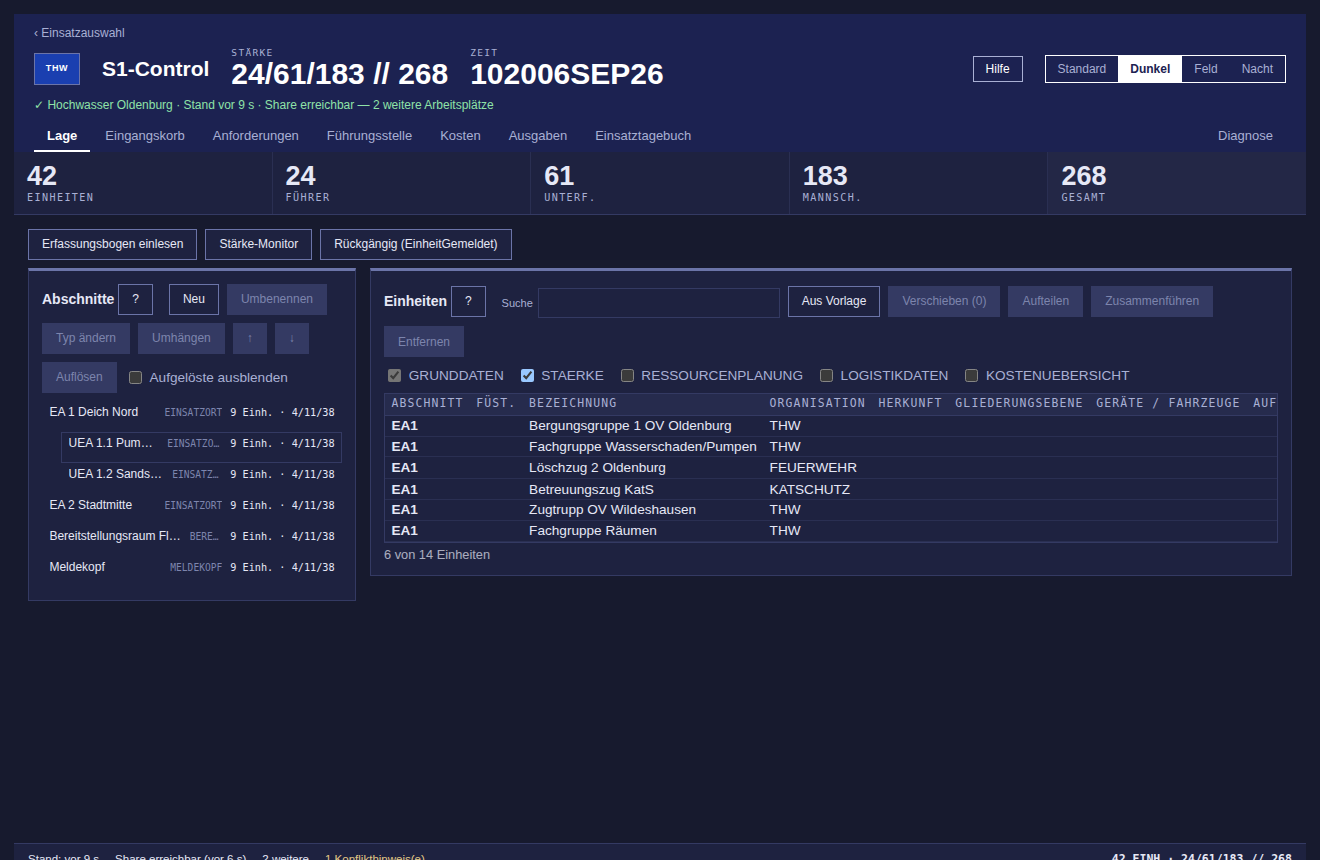
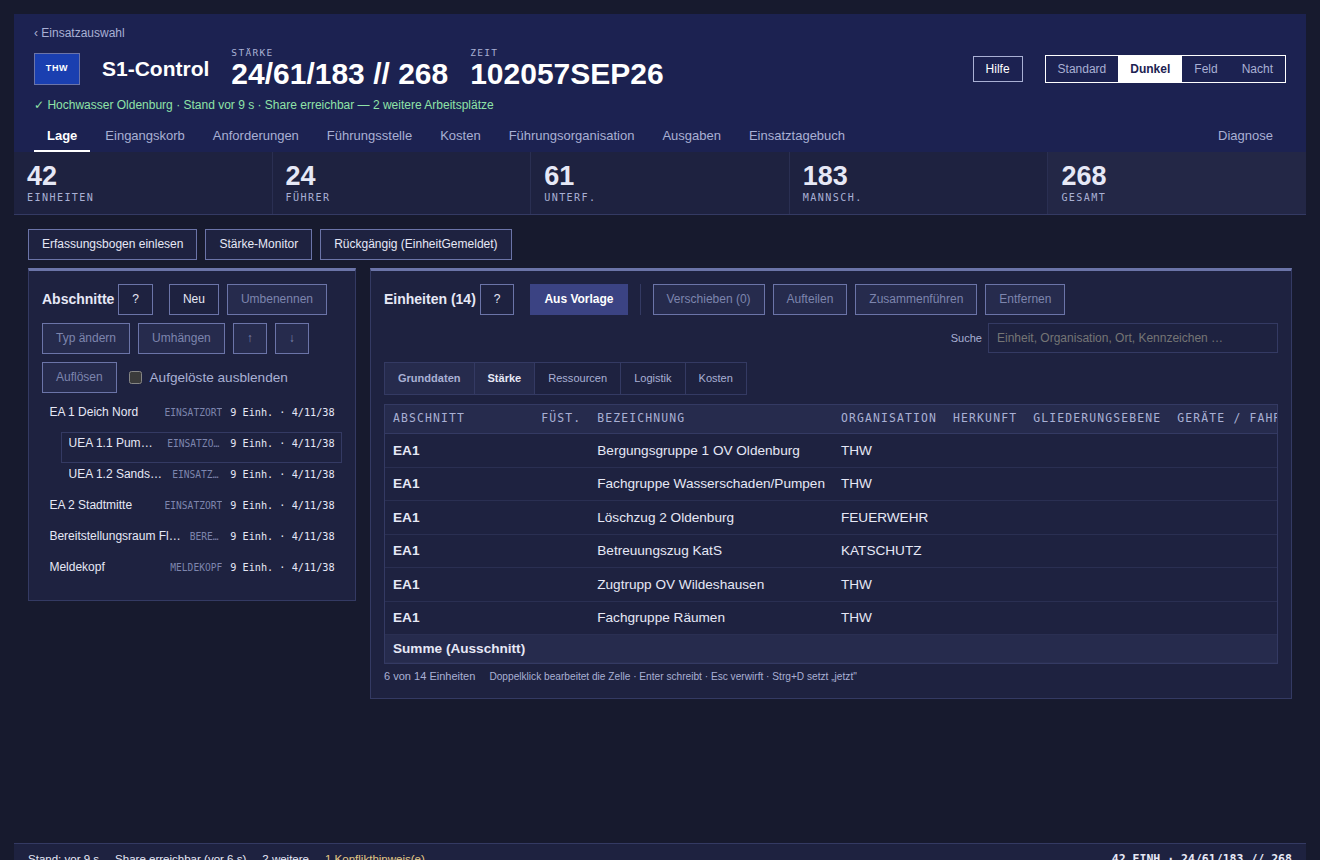
docs(entwurf): Tabelle und Führungsharke im Stand nachgezogen
Claude-Session: https://claude.ai/code/session_01ApCu8BkD42ycPFdkLp88CE

diff --git a/docs/v2/entwurf/oberflaeche/README.md b/docs/v2/entwurf/oberflaeche/README.md
@@ -45,13 +45,40 @@ mitgeschlossen worden: `liesArbeitsplatz` hat die Betriebsart bisher zwar
 geschrieben, aber nicht wieder gelesen — ein Meldekopf war nach jedem Start
 wieder eine Führungsstelle.
 
-Offen: die Feingestaltung der Bogenübernahme aus
+Die Einheitentabelle folgt dem Entwurf: der Kopf in einer Zeile mit der Zahl der
+Treffer, „Aus Vorlage" als gefülltem Hauptweg, den vier auswahlgebundenen
+Schritten dahinter und der Suche rechts; die Spaltengruppen als Umschalter
+statt fünf Kästchen und mit Beschriftungen statt Excel-Bezeichnern; der Status
+als Marke mit Farbe und Wort; Zahlenspalten rechtsbündig in Tabellenziffern;
+darunter eine Summenzeile über den gezeigten Ausschnitt und die Fußnote zur
+Bedienung der Zelle. Die Ampeln des Eingangskorbs benutzen dieselbe Marke.
+Die Zeilen bleiben einzeilig — die Excel hat 48 Spalten, und wer Ressourcen,
+Logistik oder Kosten zuschaltet, scrollt waagerecht im Rahmen der Karte.
+
+Die Führungsorganisation ist als eigenes Blatt umgesetzt (Option 3a,
+`Fuehrungsorganisation.tsx`, `harke.ts`, `zeichen.tsx`): gezeichnet aus dem
+Abschnittsbaum, kein zweiter Editor. Je Ebene steht ein CSS-Grid aus gleichen
+Spalten; der Querbalken spannt mit `margin: 0 calc(100 %/2n)` genau von Mitte
+zu Mitte der äußeren Kinder, Abzweigstummel und Zeichen sitzen in derselben
+Zelle und beide zentriert, ohne `transform`. Linien 3 px, Stummel 20/16/14,
+Knoten 196/176/118 px. Die Beschriftung hängt an Typ **und** Tiefe — derselbe
+Einsatzort heißt auf Ebene 1 EAL und darunter UEAL —, deshalb tragen die
+Zeichen ihren Text aus dem Code und nicht aus der SVG-Datei. Meldekopf,
+Bereitstellungsraum und Logistik stehen als Einrichtungen neben der Harke, weil
+sie keine Führungsebene sind. Der Knopf „Als PDF (Lagekarte)" schreibt die
+vorhandene Ausgabe `fueorg` (M8.3); das gedruckte Blatt ist weiterhin die
+eingerückte Liste aus `@s1/ausgaben`.
+
+Offen: der Zeichensatz-Auszug als Legende neben der Harke, die Feingestaltung der Bogenübernahme aus
 erfassungsbogen.app (Option 2d) und die Führungsharke als Bildschirmansicht —
 sie existiert bislang nur als Ausgabe `fueorg`. Die taktischen Zeichen aus dem
 Bündel liegen unter `apps/desktop/assets/tz/clean/` (`viewBox 0 0 256 256`, ohne
 C2PA-Metadaten) und werden noch nicht gezeichnet. Vor ihrer ersten Verwendung
 ist Roboto Slab Bold lokal einzubinden: Die Anwendung läuft offline, eine
-Schrift von Google Fonts wäre im Einsatz nicht da.
+Schrift von Google Fonts wäre im Einsatz nicht da. Bis dahin zeichnet die Harke
+ihre Zeichen mit dem Rückfall auf Georgia — die Form stimmt, die Serifen sind
+andere. Die gelieferten Dateien trugen je acht Kilobyte C2PA-Metadaten; sie
+sind entfernt, übrig sind rund 500 Byte je Zeichen.
 
 Die fünf offenen Entscheidungen am Ende des Handoffs (Zahl der Themes,
 Modulleiste links, Erfassen im Meldekopf-Modus, Schriftfamilien, gemeinsames
@@ -60,5 +87,6 @@ zweiter Navigationsstreifen und Mono nur für Marken, Spaltenköpfe und Kennunge
 
 Unter `stand/` liegen vier Aufnahmen des gebauten Renderers (1320×860, Chromium,
 Brücke durch eine Attrappe mit einer erfundenen Lage ersetzt): `standard.png`,
-`dunkel.png`, `feld.png`, `nacht.png`. Sie zeigen den Stand vom 2026-09-10 und
+`dunkel.png`, `feld.png`, `nacht.png`, dazu `fuehrungsorganisation.png` und
+`einheitentabelle-status.png` (die Tabelle an ihr rechtes Ende gescrollt). Sie zeigen den Stand vom 2026-09-10 und
 sind bei der nächsten Änderung an der Gestaltung neu zu erzeugen.
